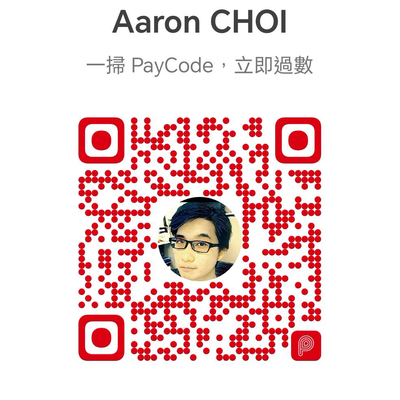
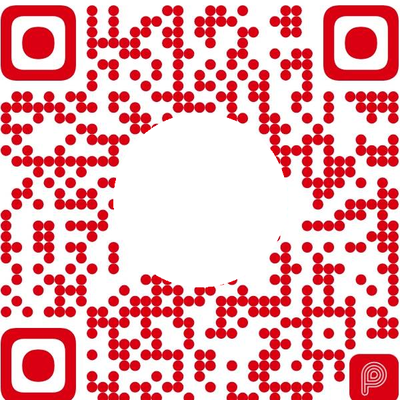
chore: clean PayMe QR — crop out name header + blank center photo (v1.2.7-beta)
- QR cropped to code-only (removed 'Aaron CHOI' name + slogan header)
- Center profile photo blanked (white circle ~15% area, within QR H-level EC)
- Finder patterns intact; P logo kept; 400px PNG

diff --git a/index.html b/index.html
@@ -7,7 +7,7 @@
   <link rel="preconnect" href="https://fonts.googleapis.com" />
   <link rel="preconnect" href="https://fonts.gstatic.com" crossorigin />
   <link href="https://fonts.googleapis.com/css2?family=Rajdhani:wght@500;600;700&family=Russo+One&display=swap" rel="stylesheet" />
-  <link rel="stylesheet" href="css/styles.css?v=1.2.6-beta" />
+  <link rel="stylesheet" href="css/styles.css?v=1.2.7-beta" />
   <!-- GoatCounter privacy-friendly analytics -->
   <script data-goatcounter="https://aaronht88.goatcounter.com/count"
           async src="//gc.zgo.at/count.js"></script>
@@ -21,7 +21,7 @@
         <p class="subtitle" data-i18n="subtitle">233 張實卡資料（BP01 The Avengers + SD01-04 預組）· 官方 cardlist</p>
         <p class="author-credit" data-i18n="byAuthor">by aaronht88</p>
       </div>
-      <span class="version-badge" id="version-badge">v1.2.6-beta</span>
+      <span class="version-badge" id="version-badge">v1.2.7-beta</span>
       <span class="visitor-badge" data-i18n-title="visitorViews" title="訪客瀏覽次數">👁 <span data-i18n="visitorLabel">訪客</span> <span id="visitor-count">–</span></span>
       <button id="btn-donate-top" class="btn-donate-chip" data-i18n="donateBtn">☕ 支持我</button>
     </div>
@@ -104,7 +104,7 @@
           <img class="wl-logo" src="img/logo.png" alt="Marvel Hero Rush" />
           <div class="wl-title">MARVEL HERO RUSH</div>
           <div class="wl-sub">DECK BUILDER</div>
-          <div class="wl-version" id="wl-version">v1.2.6-beta</div>
+          <div class="wl-version" id="wl-version">v1.2.7-beta</div>
           <div class="wl-visitors">👁 <span data-i18n="cumulativeUsers">累積使用人數</span>：<span id="wl-visitor-count">–</span></div>
         </div>
         <div class="modal-info wl-info">
@@ -242,9 +242,9 @@
   <div id="toast" class="toast" hidden></div>
 
   <!-- data + logic (versioned query = cache busting on release) -->
-  <script src="js/i18n.js?v=1.2.6-beta"></script>
-  <script src="js/cards.js?v=1.2.6-beta"></script>
-  <script src="js/rules.js?v=1.2.6-beta"></script>
-  <script src="js/app.js?v=1.2.6-beta"></script>
+  <script src="js/i18n.js?v=1.2.7-beta"></script>
+  <script src="js/cards.js?v=1.2.7-beta"></script>
+  <script src="js/rules.js?v=1.2.7-beta"></script>
+  <script src="js/app.js?v=1.2.7-beta"></script>
 </body>
 </html>

diff --git a/js/app.js b/js/app.js
@@ -4,7 +4,7 @@
 // Depends on: i18n.js, cards.js (window.MHR_DATA), rules.js (window.MHR_RULES)
 
 (function () {
-  const APP_VERSION = "1.2.6-beta";
+  const APP_VERSION = "1.2.7-beta";
   const { CARDS, RARITIES, CARD_SETS, ATTRIBUTES } = window.MHR_DATA;
   const RULES = window.MHR_RULES;
   const { t, setLang, getLang } = window.MHR_I18N;

diff --git a/README.md b/README.md
@@ -2,11 +2,11 @@
 
 A lightweight deck-building web app for the **Marvel Hero Rush TCG** (Card Fun / 杰森动漫).
 
-> **Build v1.2.6-beta** · 2026-08-11
+> **Build v1.2.7-beta** · 2026-08-11
 > ✅ **Real card data.** Cardlist published on the official site — this repo contains all **233 card entries** (192 unique card numbers, including alternate-art / rarity prints) scraped from the official API, with local card art thumbnails.
 > 🎨 UI themed on the official rulebook's dark sci-fi / tactical HUD design language.
 
-## Features (v1.2.6-beta)
+## Features (v1.2.7-beta)
 
 **Card database**
 - 233 real cards from the official cardlist (BP01 The Avengers booster + SD01-04 REALITY/MIND/SPACE/TIME starters)
